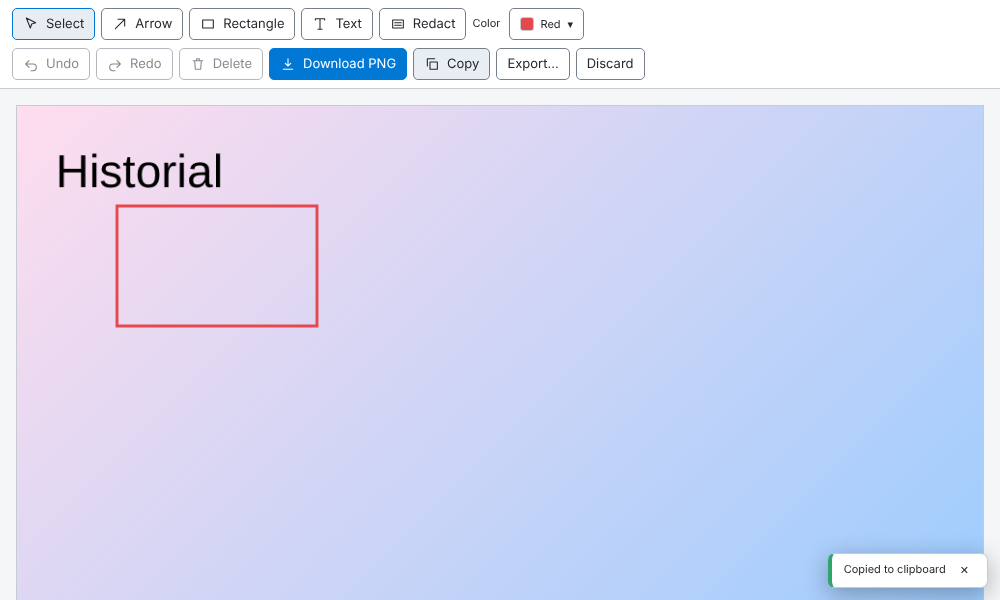
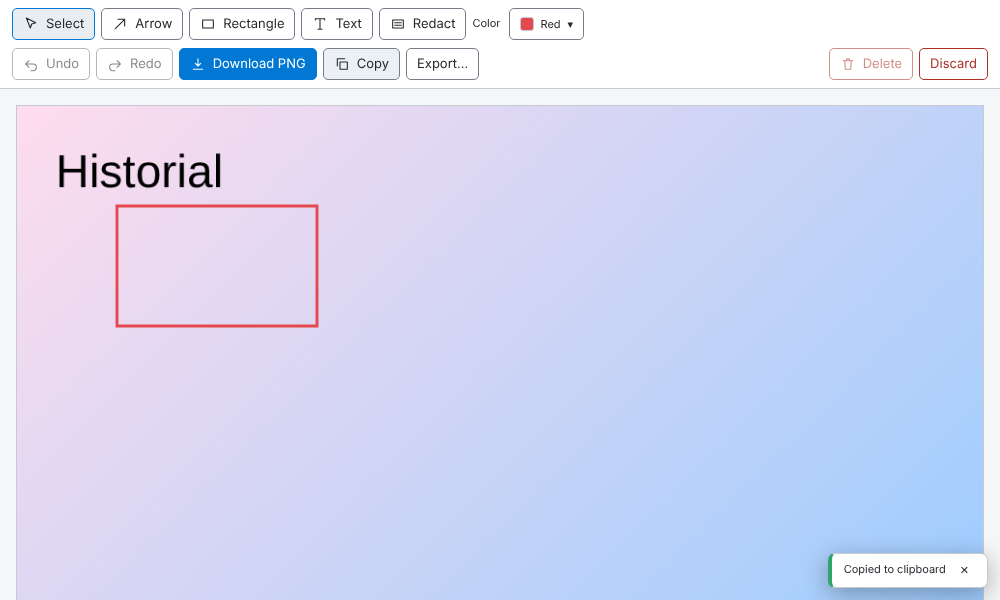
feat: reordenar botones del editor y acciones destructivas en rojo (0.6.2)

diff --git a/src/entrypoints/editor/Editor.tsx b/src/entrypoints/editor/Editor.tsx
@@ -481,7 +481,7 @@ export function Editor() {
             </label>
           ) : null}
         </div>
-        <div className="tool-row">
+        <div className="tool-row tool-actions">
           <button
             title={`${t('undo')} (Ctrl+Z)`}
             disabled={!history.canUndo}
@@ -497,14 +497,6 @@ export function Editor() {
           >
             <Icon name="redo" />
             <span>{t('redo')}</span>
-          </button>
-          <button
-            title={`${t('deleteItem')} (Del)`}
-            disabled={!selected}
-            onClick={() => canvasRef.current?.deleteSelected()}
-          >
-            <Icon name="trash" />
-            <span>{t('deleteItem')}</span>
           </button>
           <button
             className="primary"
@@ -527,7 +519,18 @@ export function Editor() {
           >
             <span>{t('exportOpen')}…</span>
           </button>
+          <span className="tool-spacer" aria-hidden="true" />
           <button
+            className="danger"
+            title={`${t('deleteItem')} (Del)`}
+            disabled={!selected}
+            onClick={() => canvasRef.current?.deleteSelected()}
+          >
+            <Icon name="trash" />
+            <span>{t('deleteItem')}</span>
+          </button>
+          <button
+            className="danger"
             title={t('discardHint')}
             onClick={() => void discard()}
             onBlur={() => setConfirmDiscard(false)}

diff --git a/src/shared/theme/layout.css b/src/shared/theme/layout.css
@@ -566,7 +566,6 @@ button:disabled:not(.mode) {
 }
 @keyframes toast-in {
   from {
-    opacity: 0;
     transform: translateY(8px);
   }
   to {
@@ -578,4 +577,18 @@ button:disabled:not(.mode) {
   .toast {
     animation: none;
   }
+}
+
+.tool-actions {
+  flex: 1 1 100%;
+}
+.tool-spacer {
+  flex: 1;
+}
+button.danger {
+  color: var(--error);
+  border-color: var(--error);
+}
+button.danger:hover:not(:disabled) {
+  background: color-mix(in srgb, var(--error) 14%, transparent);
 }

diff --git a/CHANGELOG.md b/CHANGELOG.md
@@ -1,5 +1,9 @@
 # Cambios
 
+## 0.6.2 — 2026-10-22
+
+- Barra del editor reordenada: Deshacer y Rehacer, luego Descargar PNG, Copiar y Exportar…, y al final a la derecha **Eliminar** y **Descartar** en rojo, separados de las acciones seguras.
+
 ## 0.6.1 — 2026-10-22
 
 - **Avisos tipo toast** abajo a la derecha para confirmar acciones: copiar, descargar, exportar, guardar proyecto, eliminar/borrar historial, abrir un proyecto y guardar un ajuste; los errores se muestran en rojo y duran más. Se cierran solos o con ✕. Sustituyen a la línea de estado del pie del editor.
